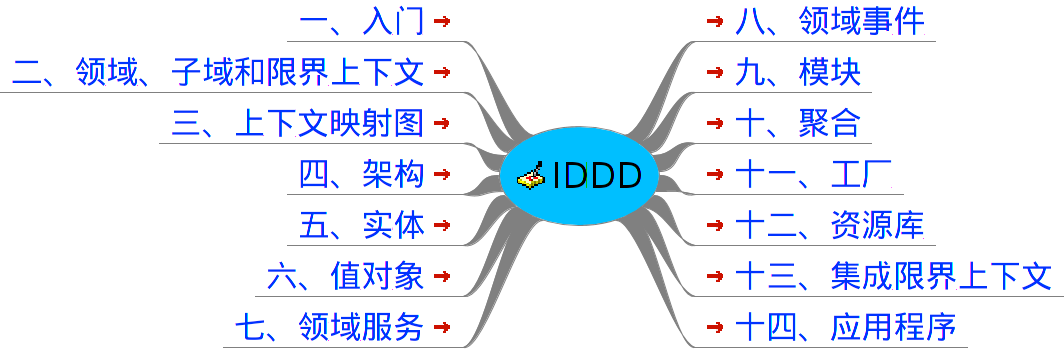
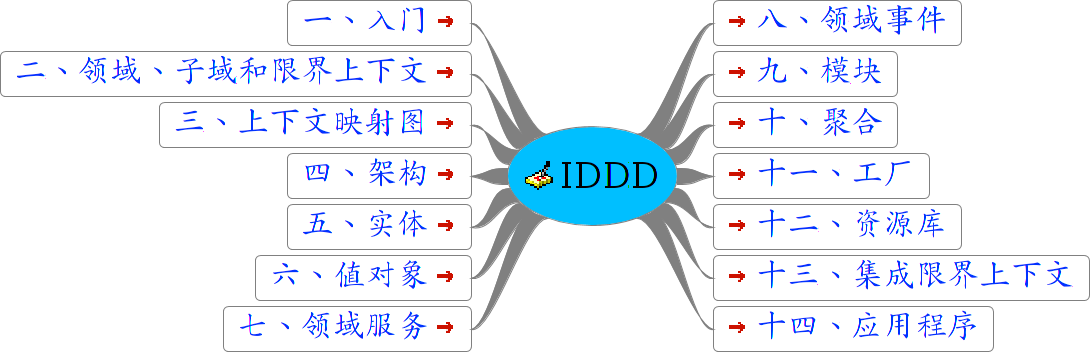
0824-IDDD-ALL

Changed region(s): [[0.0, 0.0, 1.0, 1.0], [0.2791, 0.0312, 0.3102, 0.0625]]

diff --git a/IDDD/IDDD.mm b/IDDD/IDDD.mm
@@ -1,6 +1,6 @@
 <map version="0.9.0">
 <!-- To view this file, download free mind mapping software FreeMind from http://freemind.sourceforge.net -->
-<node BACKGROUND_COLOR="#00bfff" COLOR="#000000" CREATED="1405822652168" ID="ID_318591736" MODIFIED="1405822701625" TEXT="IDDD">
+<node BACKGROUND_COLOR="#00bfff" COLOR="#000000" CREATED="1408868961212" ID="ID_1057246951" MODIFIED="1408869058504" STYLE="bubble" TEXT="IDDD">
 <richcontent TYPE="NOTE"><html>
   <head>
     
@@ -12,63 +12,63 @@
   </body>
 </html>
 </richcontent>
-<font NAME="SansSerif" SIZE="20"/>
+<font NAME="Serif" SIZE="20"/>
 <hook NAME="accessories/plugins/AutomaticLayout.properties"/>
-<node COLOR="#0033ff" CREATED="1405822652168" ID="ID_678400341" LINK="./IDDD_1.org" MODIFIED="1405822676429" POSITION="left" TEXT="&#x4e00;&#x3001;&#x5165;&#x95e8;">
+<node COLOR="#0033ff" CREATED="1408868961212" ID="ID_239288612" LINK="./IDDD_1.org" MODIFIED="1408869054452" POSITION="left" STYLE="bubble" TEXT="&#x4e00;&#x3001;&#x5165;&#x95e8;">
 <edge STYLE="sharp_bezier" WIDTH="8"/>
-<font NAME="SansSerif" SIZE="18"/>
+<font NAME="Serif" SIZE="18"/>
 </node>
-<node COLOR="#0033ff" CREATED="1405822652169" ID="ID_373642030" LINK="./IDDD_2.org" MODIFIED="1405822676432" POSITION="left" TEXT="&#x4e8c;&#x3001;&#x9886;&#x57df;&#x3001;&#x5b50;&#x57df;&#x548c;&#x9650;&#x754c;&#x4e0a;&#x4e0b;&#x6587;">
+<node COLOR="#0033ff" CREATED="1408868961213" ID="ID_752115817" LINK="./IDDD_2.org" MODIFIED="1408869054450" POSITION="left" STYLE="bubble" TEXT="&#x4e8c;&#x3001;&#x9886;&#x57df;&#x3001;&#x5b50;&#x57df;&#x548c;&#x9650;&#x754c;&#x4e0a;&#x4e0b;&#x6587;">
 <edge STYLE="sharp_bezier" WIDTH="8"/>
-<font NAME="SansSerif" SIZE="18"/>
+<font NAME="Serif" SIZE="18"/>
 </node>
-<node COLOR="#0033ff" CREATED="1405822652169" ID="ID_928590332" LINK="./IDDD_3.org" MODIFIED="1405822676435" POSITION="left" TEXT="&#x4e09;&#x3001;&#x4e0a;&#x4e0b;&#x6587;&#x6620;&#x5c04;&#x56fe;">
+<node COLOR="#0033ff" CREATED="1408868961213" ID="ID_1314054367" LINK="./IDDD_3.org" MODIFIED="1408869054448" POSITION="left" STYLE="bubble" TEXT="&#x4e09;&#x3001;&#x4e0a;&#x4e0b;&#x6587;&#x6620;&#x5c04;&#x56fe;">
 <edge STYLE="sharp_bezier" WIDTH="8"/>
-<font NAME="SansSerif" SIZE="18"/>
+<font NAME="Serif" SIZE="18"/>
 </node>
-<node COLOR="#0033ff" CREATED="1405822652170" ID="ID_1209192309" LINK="./IDDD_4.org" MODIFIED="1405822676438" POSITION="left" TEXT="&#x56db;&#x3001;&#x67b6;&#x6784;">
+<node COLOR="#0033ff" CREATED="1408868961213" ID="ID_810805516" LINK="./IDDD_4.org" MODIFIED="1408869054446" POSITION="left" STYLE="bubble" TEXT="&#x56db;&#x3001;&#x67b6;&#x6784;">
 <edge STYLE="sharp_bezier" WIDTH="8"/>
-<font NAME="SansSerif" SIZE="18"/>
+<font NAME="Serif" SIZE="18"/>
 </node>
-<node COLOR="#0033ff" CREATED="1405822652170" ID="ID_879244708" LINK="./IDDD_5.org" MODIFIED="1405822676441" POSITION="left" TEXT="&#x4e94;&#x3001;&#x5b9e;&#x4f53;">
+<node COLOR="#0033ff" CREATED="1408868961214" ID="ID_1921739179" LINK="./IDDD_5.org" MODIFIED="1408869054445" POSITION="left" STYLE="bubble" TEXT="&#x4e94;&#x3001;&#x5b9e;&#x4f53;">
 <edge STYLE="sharp_bezier" WIDTH="8"/>
-<font NAME="SansSerif" SIZE="18"/>
+<font NAME="Serif" SIZE="18"/>
 </node>
-<node COLOR="#0033ff" CREATED="1405822652170" ID="ID_1649752563" LINK="./IDDD_6.org" MODIFIED="1405822676444" POSITION="left" TEXT="&#x516d;&#x3001;&#x503c;&#x5bf9;&#x8c61;">
+<node COLOR="#0033ff" CREATED="1408868961214" ID="ID_1027517260" LINK="./IDDD_6.org" MODIFIED="1408869054443" POSITION="left" STYLE="bubble" TEXT="&#x516d;&#x3001;&#x503c;&#x5bf9;&#x8c61;">
 <edge STYLE="sharp_bezier" WIDTH="8"/>
-<font NAME="SansSerif" SIZE="18"/>
+<font NAME="Serif" SIZE="18"/>
 </node>
-<node COLOR="#0033ff" CREATED="1405822652170" ID="ID_1186648200" LINK="./IDDD_7.org" MODIFIED="1405822676447" POSITION="left" TEXT="&#x4e03;&#x3001;&#x9886;&#x57df;&#x670d;&#x52a1;">
+<node COLOR="#0033ff" CREATED="1408868961214" ID="ID_1183875808" LINK="./IDDD_7.org" MODIFIED="1408869054442" POSITION="left" STYLE="bubble" TEXT="&#x4e03;&#x3001;&#x9886;&#x57df;&#x670d;&#x52a1;">
 <edge STYLE="sharp_bezier" WIDTH="8"/>
-<font NAME="SansSerif" SIZE="18"/>
+<font NAME="Serif" SIZE="18"/>
 </node>
-<node COLOR="#0033ff" CREATED="1405822652170" ID="ID_1043500969" LINK="./IDDD_8.org" MODIFIED="1405822676449" POSITION="right" TEXT="&#x516b;&#x3001;&#x9886;&#x57df;&#x4e8b;&#x4ef6;">
+<node COLOR="#0033ff" CREATED="1408868961214" ID="ID_804747703" LINK="./IDDD_8.org" MODIFIED="1408869054441" POSITION="right" STYLE="bubble" TEXT="&#x516b;&#x3001;&#x9886;&#x57df;&#x4e8b;&#x4ef6;">
 <edge STYLE="sharp_bezier" WIDTH="8"/>
-<font NAME="SansSerif" SIZE="18"/>
+<font NAME="Serif" SIZE="18"/>
 </node>
-<node COLOR="#0033ff" CREATED="1405822652170" ID="ID_91315803" LINK="./IDDD_9.org" MODIFIED="1405822676452" POSITION="right" TEXT="&#x4e5d;&#x3001;&#x6a21;&#x5757;">
+<node COLOR="#0033ff" CREATED="1408868961214" ID="ID_1796755678" LINK="./IDDD_9.org" MODIFIED="1408869054440" POSITION="right" STYLE="bubble" TEXT="&#x4e5d;&#x3001;&#x6a21;&#x5757;">
 <edge STYLE="sharp_bezier" WIDTH="8"/>
-<font NAME="SansSerif" SIZE="18"/>
+<font NAME="Serif" SIZE="18"/>
 </node>
-<node COLOR="#0033ff" CREATED="1405822652171" ID="ID_1277156368" LINK="./IDDD_10.org" MODIFIED="1405822676454" POSITION="right" TEXT="&#x5341;&#x3001;&#x805a;&#x5408;">
+<node COLOR="#0033ff" CREATED="1408868961214" ID="ID_398060175" LINK="./IDDD_10.org" MODIFIED="1408869054438" POSITION="right" STYLE="bubble" TEXT="&#x5341;&#x3001;&#x805a;&#x5408;">
 <edge STYLE="sharp_bezier" WIDTH="8"/>
-<font NAME="SansSerif" SIZE="18"/>
+<font NAME="Serif" SIZE="18"/>
 </node>
-<node COLOR="#0033ff" CREATED="1405822652171" ID="ID_657770823" LINK="./IDDD_11.org" MODIFIED="1405822676457" POSITION="right" TEXT="&#x5341;&#x4e00;&#x3001;&#x5de5;&#x5382;">
+<node COLOR="#0033ff" CREATED="1408868961214" ID="ID_1986855526" LINK="./IDDD_11.org" MODIFIED="1408869054437" POSITION="right" STYLE="bubble" TEXT="&#x5341;&#x4e00;&#x3001;&#x5de5;&#x5382;">
 <edge STYLE="sharp_bezier" WIDTH="8"/>
-<font NAME="SansSerif" SIZE="18"/>
+<font NAME="Serif" SIZE="18"/>
 </node>
-<node COLOR="#0033ff" CREATED="1405822652171" ID="ID_829988682" LINK="./IDDD_12.org" MODIFIED="1405822676459" POSITION="right" TEXT="&#x5341;&#x4e8c;&#x3001;&#x8d44;&#x6e90;&#x5e93;">
+<node COLOR="#0033ff" CREATED="1408868961214" ID="ID_1854408031" LINK="./IDDD_12.org" MODIFIED="1408869054435" POSITION="right" STYLE="bubble" TEXT="&#x5341;&#x4e8c;&#x3001;&#x8d44;&#x6e90;&#x5e93;">
 <edge STYLE="sharp_bezier" WIDTH="8"/>
-<font NAME="SansSerif" SIZE="18"/>
+<font NAME="Serif" SIZE="18"/>
 </node>
-<node COLOR="#0033ff" CREATED="1405822652171" ID="ID_609657107" LINK="./IDDD_13.org" MODIFIED="1405822676462" POSITION="right" TEXT="&#x5341;&#x4e09;&#x3001;&#x96c6;&#x6210;&#x9650;&#x754c;&#x4e0a;&#x4e0b;&#x6587;">
+<node COLOR="#0033ff" CREATED="1408868961215" ID="ID_397681176" LINK="./IDDD_13.org" MODIFIED="1408869054433" POSITION="right" STYLE="bubble" TEXT="&#x5341;&#x4e09;&#x3001;&#x96c6;&#x6210;&#x9650;&#x754c;&#x4e0a;&#x4e0b;&#x6587;">
 <edge STYLE="sharp_bezier" WIDTH="8"/>
-<font NAME="SansSerif" SIZE="18"/>
+<font NAME="Serif" SIZE="18"/>
 </node>
-<node COLOR="#0033ff" CREATED="1405822652171" ID="ID_1959541149" LINK="./IDDD_14.org" MODIFIED="1405822676464" POSITION="right" TEXT="&#x5341;&#x56db;&#x3001;&#x5e94;&#x7528;&#x7a0b;&#x5e8f;">
+<node COLOR="#0033ff" CREATED="1408868961215" ID="ID_1816738095" LINK="./IDDD_14.org" MODIFIED="1408869054430" POSITION="right" STYLE="bubble" TEXT="&#x5341;&#x56db;&#x3001;&#x5e94;&#x7528;&#x7a0b;&#x5e8f;">
 <edge STYLE="sharp_bezier" WIDTH="8"/>
-<font NAME="SansSerif" SIZE="18"/>
+<font NAME="Serif" SIZE="18"/>
 </node>
 </node>
 </map>
